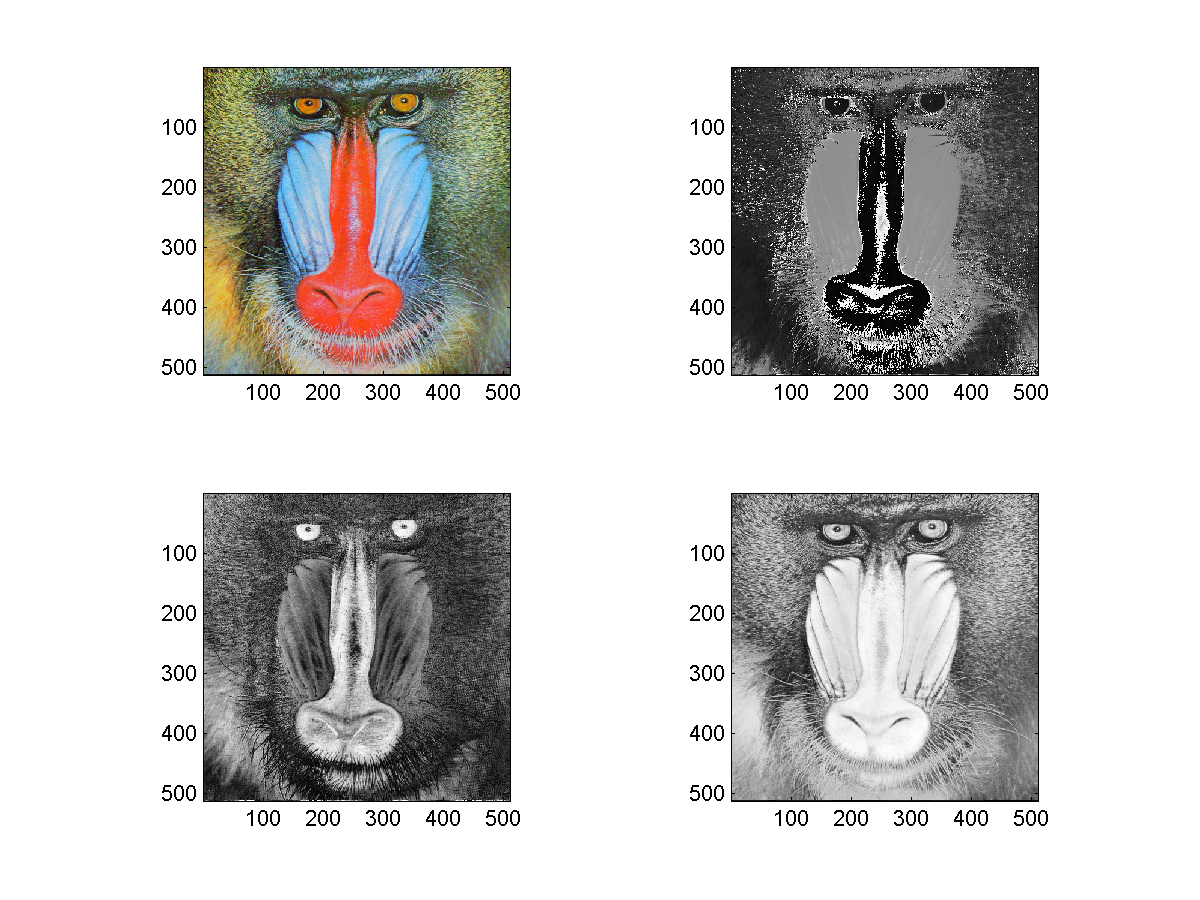
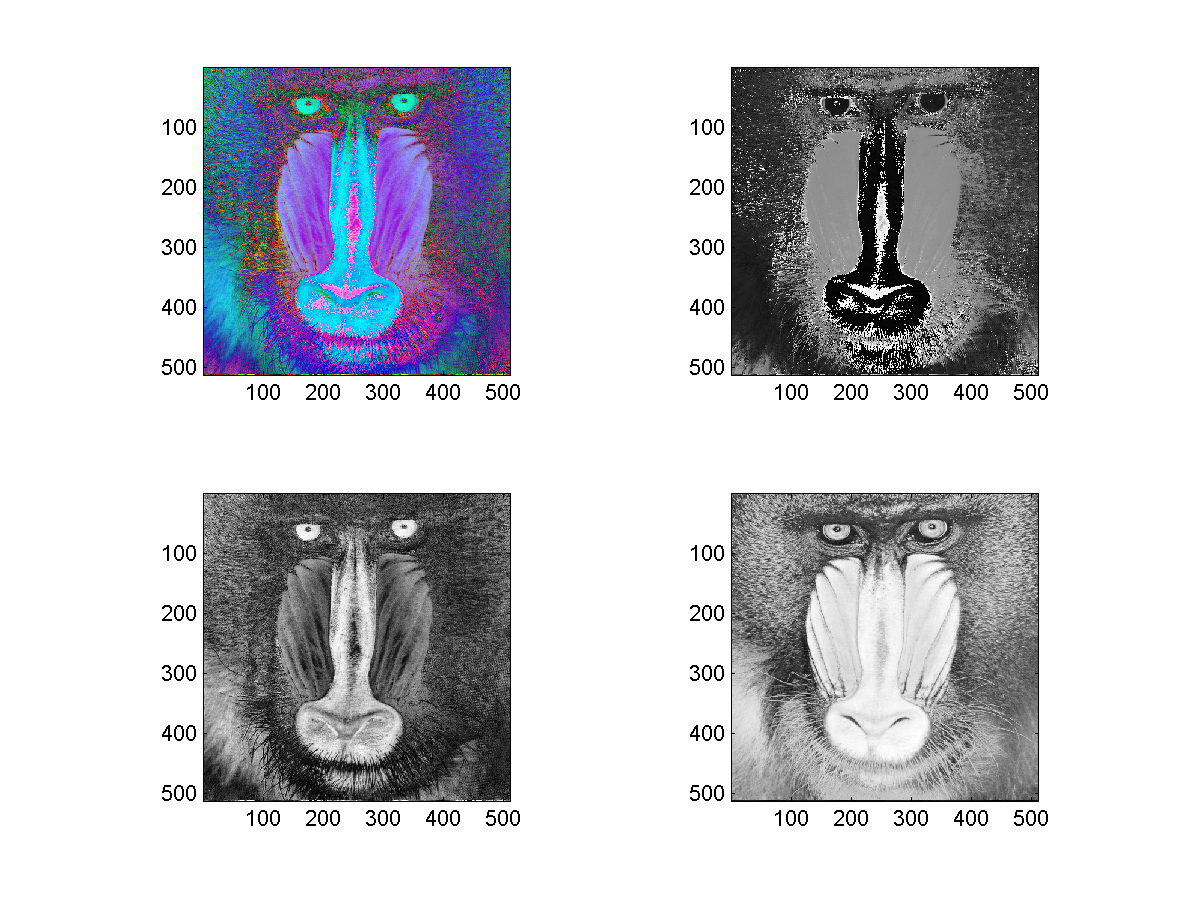
Mosaicos

Changed region(s): [[0.1542, 0.0622, 0.4317, 0.4356]]

diff --git a/lab2_matlab/RGB2Lab.m b/lab2_matlab/RGB2Lab.m
@@ -1,0 +1,64 @@
+function [L,a,b] = RGB2Lab(R,G,B)
+% function [L, a, b] = RGB2Lab(R, G, B)
+% RGB2Lab takes matrices corresponding to Red, Green, and Blue, and 
+% transforms them into CIELab.  This transform is based on ITU-R 
+% Recommendation  BT.709 using the D65 white point reference.
+% The error in transforming RGB -> Lab -> RGB is approximately
+% 10^-5.  RGB values can be either between 0 and 1 or between 0 and 255.  
+% By Mark Ruzon from C code by Yossi Rubner, 23 September 1997.
+% Updated for MATLAB 5 28 January 1998.
+
+if (nargin == 1)
+  B = double(R(:,:,3));
+  G = double(R(:,:,2));
+  R = double(R(:,:,1));
+end
+
+if ((max(max(R)) > 1.0) || (max(max(G)) > 1.0) || (max(max(B)) > 1.0))
+  R = R/255;
+  G = G/255;
+  B = B/255;
+end
+
+[M, N] = size(R);
+s = M*N;
+
+% Set a threshold
+T = 0.008856;
+
+RGB = [reshape(R,1,s); reshape(G,1,s); reshape(B,1,s)];
+
+% RGB to XYZ
+MAT = [0.412453 0.357580 0.180423;
+       0.212671 0.715160 0.072169;
+       0.019334 0.119193 0.950227];
+XYZ = MAT * RGB;
+
+X = XYZ(1,:) / 0.950456;
+Y = XYZ(2,:);
+Z = XYZ(3,:) / 1.088754;
+
+XT = X > T;
+YT = Y > T;
+ZT = Z > T;
+
+fX = XT .* X.^(1/3) + (~XT) .* (7.787 .* X + 16/116);
+
+% Compute L
+Y3 = Y.^(1/3); 
+fY = YT .* Y3 + (~YT) .* (7.787 .* Y + 16/116);
+L  = YT .* (116 * Y3 - 16.0) + (~YT) .* (903.3 * Y);
+
+fZ = ZT .* Z.^(1/3) + (~ZT) .* (7.787 .* Z + 16/116);
+
+% Compute a and b
+a = 500 * (fX - fY);
+b = 200 * (fY - fZ);
+
+L = reshape(L, M, N);
+a = reshape(a, M, N);
+b = reshape(b, M, N);
+
+if ((nargout == 1) || (nargout == 0))
+  L = cat(3,L,a,b);
+end
